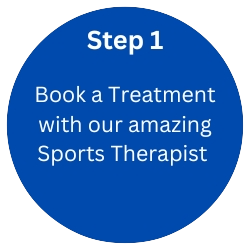
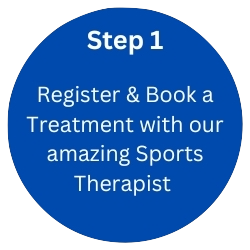
home page created

diff --git a/milestone3/templates/home.html b/milestone3/templates/home.html
@@ -16,21 +16,49 @@
 
       </div> -->
     <div class="row">
-      <div><img class="bannersm center-align" src="../static/images/frontPageBanner.jpg" alt="Unsplashed background img 1"></div>
+      <div><img class="bannersm center-align" src="../static/images/frontPageBanner.jpg" alt="Sports Therapy Picture"></div>
     </div>
 
 
 <div class="row">
     <div class="col s12 stepTitle center-align">How it works</div>
     <div class="grid-example col s12 m6 l4 center-align">
-      <img class="steps" src="../static/images/1.png" alt="Step 1 Book Appointment">
+      <a href="{{ url_for('register') }}">
+        <img class="steps" src="../static/images/1.png" alt="Step 1 Book Appointment">
+      </a>
     </div>
     <div class="grid-example col s12 m6 l4 center-align">
       <img class="steps" src="../static/images/2.png" alt="Step 2 Attend Appointment">
     </div>
     <div class="grid-example col s12 m6 l4 center-align">
-    <img class="steps" src="../static/images/3.png" alt="Step 3 Personalised Rehab plan">
+      <img class="steps" src="../static/images/3.png" alt="Step 3 Personalised Rehab plan">
+    </div>
   </div>
-</div>
+  <div class="stepTitle center-align">Meet the Team</div>
+  <div class="row">
+    <div class="col s12 m6 l4 center">
+      <!--The image used has been supplied by Balanced Training-->
+      <img class="profilepic" src="assets/images/sarah_head.webp" alt="Sarah Profile pic">
+      <h4 class="therapists"> <strong>Sarah Goodrem</strong><br> Head Sports Therapist & PT</h4>
+      <p>Being a Sports Therapist and Personal trainer gives Sarah an insight into how to both,
+         work on an injury and help the healing process and work round the problem to help you achieve 
+         the results you are looking for whether they be conditioning or weightloss.
+        </p>
+    </div>
+    <div class="col s12 m6 l4 center">
+      <!--The image used has been supplied by Balanced Training-->
+      <img class="profilepic" src="assets/images/greg_head.webp" alt="Greg Profile pic">
+      <h4 class="therapists"> <strong>Greg Goodrem</strong><br> Trainee Massage Therapist & PT</h4>
+      <p class="center">Having delivered THOUSANDS of hours of personal training since starting in 2005, Greg can 
+        help you slowly return to sport and exercise after your treatment.</p>
+    </div>
+    <div class="col s12 m6 l4 center">
+      <!--The image used has been supplied by Balanced Training-->
+      <img class="profilepic" src="assets/images/max_head.JPG" alt="Max profile pic">
+      <h4 class="therapists"> <strong> Maximus Goodrem</strong> <br>Emotional Support</h4>
+      <p>This little guy is an integral part of our team always brings a smile to 
+        your face whenever he comes through the gym door carrying a ball. He usually likes to chill
+      out in the office upstairs but is on hand for a stroke or to eat a treat.</p>
+    </div>
 
 {% endblock %}

diff --git a/milestone3/templates/base.html b/milestone3/templates/base.html
@@ -17,10 +17,10 @@
         <!-- top navbar -->
 		<nav class="nav-extended text-shadow topnav darken-1">
 			<div class="nav-wrapper">
-				<a href="{{ url_for('get_treatments') }}" class="brand-logo">Sports Therapy App</a>
+				<a href="{{ url_for('home') }}" class="brand-logo">Sports Therapy App</a>
 				<a href="#" data-target="mobile-demo" class="sidenav-trigger right"><i class="fas fa-bars"></i></a>
 				<ul class="right hide-on-med-and-down">
-	    				<li><a href="{{ url_for('get_treatments') }}">Home</a></li>
+	    				<li><a href="{{ url_for('get_treatments') }}">Treatments</a></li>
                     {% if session.user %}
                     {% if session.user|lower != "gadmin"|lower %}
                         <li><a href="{{ url_for('profile', username=session['user']) }}">Booking</a></li>
@@ -42,7 +42,7 @@
         <!-- mobile sidenav -->
 		<ul class="sidenav" id="mobile-demo">
             <li><h4 class="center-align brown-text text-darken 4">Sports Therapy App</h4></li>
-            <li><a href="{{ url_for('get_treatments') }}">Home</a></li>
+            <li><a href="{{ url_for('get_treatments') }}">Treatments</a></li>
             {% if session.user %}
                 {% if session.user|lower != "gadmin"|lower %}
                 <li><a href="{{ url_for('profile', username=session['user']) }}">Booking</a></li>

diff --git a/milestone3/static/css/style.css b/milestone3/static/css/style.css
@@ -180,3 +180,6 @@ div.col.s2 {
     }
 }
 
+.therapists {
+    font-size: 26px;
+}

diff --git a/milestone3/routes.py b/milestone3/routes.py
@@ -8,6 +8,12 @@ from milestone3.models import Treatment, User
 
 
 @app.route("/")
+@app.route("/home")
+def home():
+    return render_template(
+        "home.html")
+
+
 @app.route("/get_treatments")
 def get_treatments():
     treatments = list(mongo.db.treatments.find())
@@ -232,9 +238,3 @@ def logout():
     flash("You have been logged out")
     session.pop("user")
     return redirect(url_for("login"))
-
-
-@app.route("/home")
-def home():
-    return render_template(
-        "home.html")
